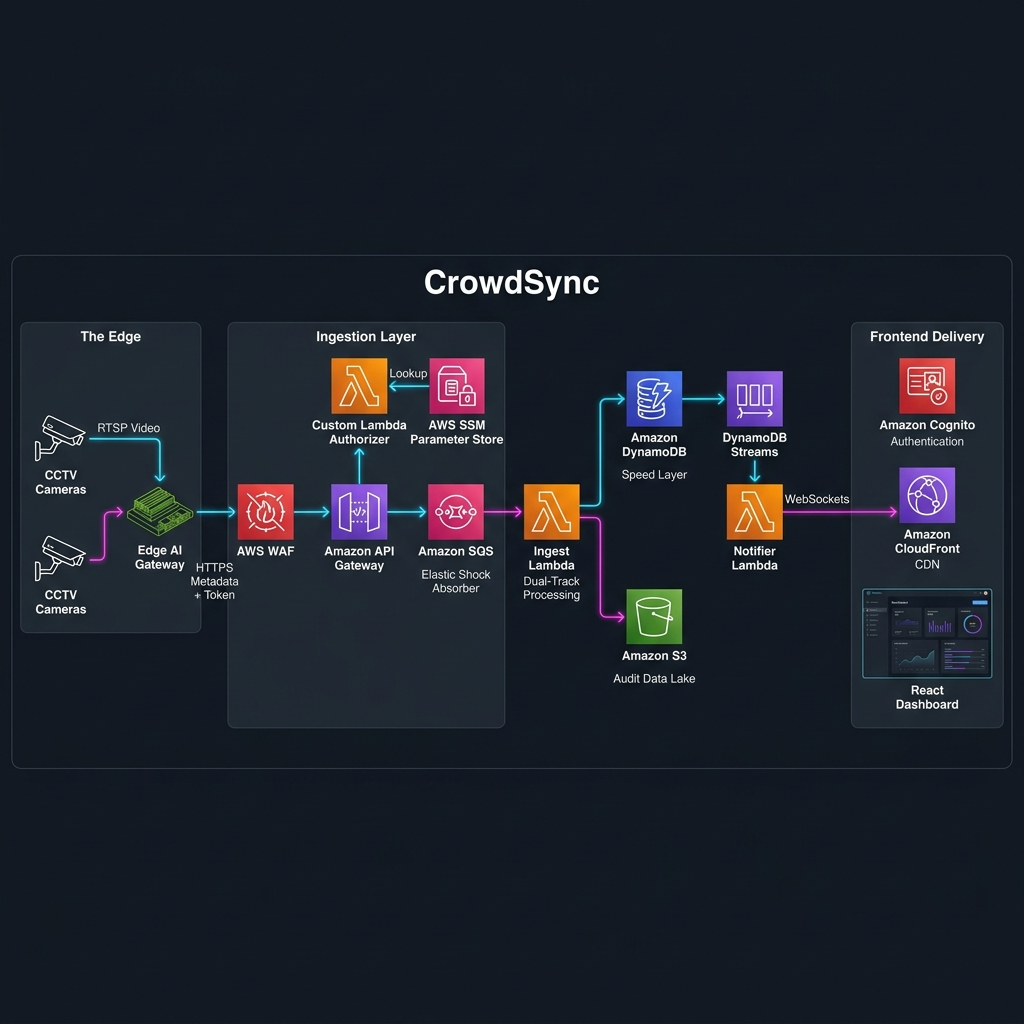
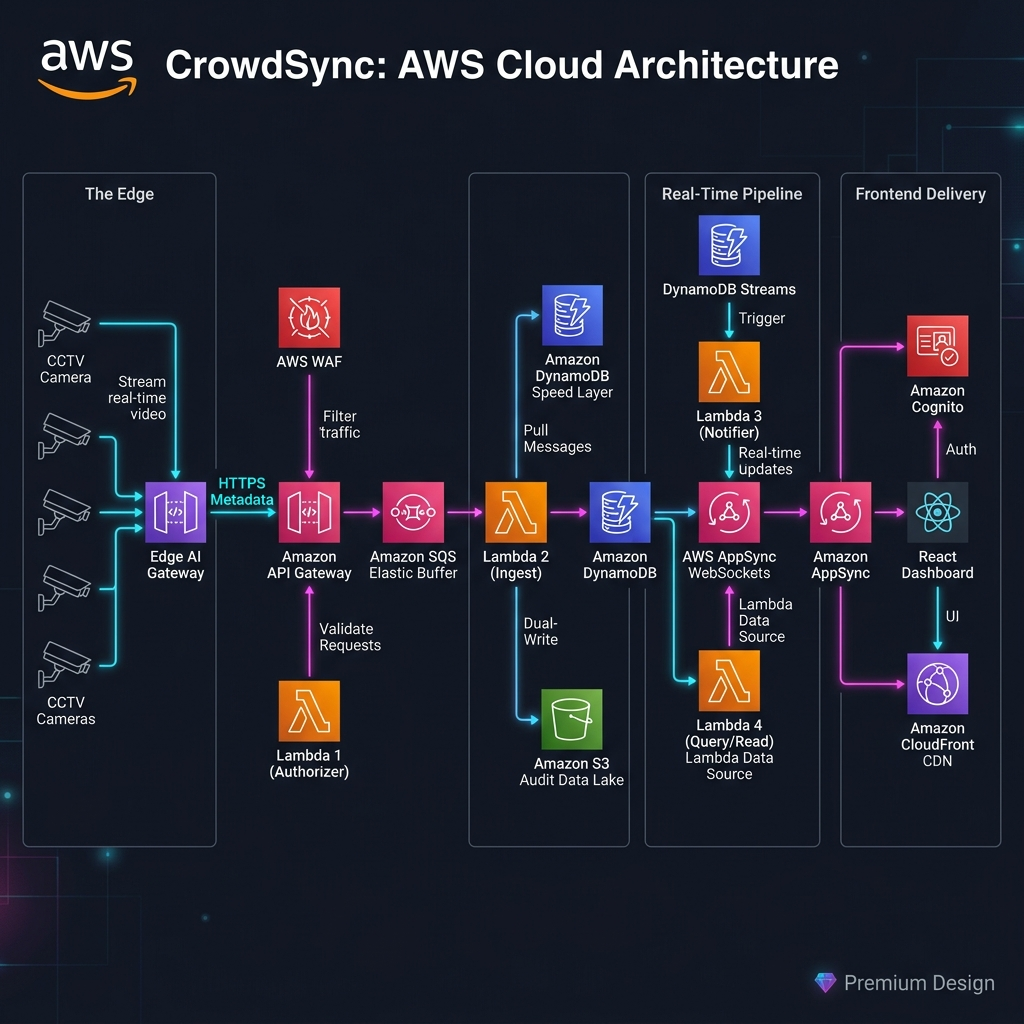
docs: finalize architecture with 4-Lambda system and Edge AI

diff --git a/ACADEMIC_REPORT.md b/ACADEMIC_REPORT.md
@@ -155,7 +155,7 @@ The architecture is heavily optimized for high-density environments, balancing p
 ## 8. Analysis and Reflection
 
 ### 8.1 Evaluation & Critical Appraisal
-**Strengths**: The decoupling of ingestion and processing via SQS proved highly successful. It acts as an effective "shock absorber," preventing database throttling and dropped payloads during sudden crowd rushes. The choice of AppSync provided seamless, out-of-the-box WebSocket management (Amazon Web Services, 2026b), which drastically simplified the React frontend code (Meta Platforms, Inc., 2026). The dual-write approach to an S3 Data Lake ensures raw data is preserved durably for complex batch processing.
+**Strengths**: The decoupling of ingestion and processing via a **4-Lambda Architecture** (Authorizer, Ingest, Notifier, and Query) proved highly successful. This separation of concerns ensured that security, ingestion, real-time broadcasting, and data retrieval could scale independently. The use of SQS as a "shock absorber" prevented database throttling, while the custom Query Lambda allowed for seamless merging of live telemetry with zone metadata for the frontend.
 
 **Areas for Improvement**: Currently, the predictive redirection engine runs entirely on the client side (React). In future iterations, implementing Machine Learning on the backend (e.g., using Amazon SageMaker) could analyze historical S3 Data Lake patterns to predict crowd surges *before* they happen, shifting the platform from reactive monitoring to proactive, AI-driven intelligence.
 

diff --git a/README.md b/README.md
@@ -71,10 +71,11 @@ python3 manage.py apply
 ### ✥ Architecture Deep Dive
 1. **The Edge**: CCTV Cameras → Edge AI Gateway (Local Inference) → Metadata Extraction.
 2. **Security Shield**: AWS WAF (Global & Regional) + CloudFront (Shields the entire platform).
-3. **Ingestion**: API Gateway (Auth via SSM Token) → SQS (Elastic Shock Absorber).
-4. **Intelligence**: Ingest Lambda (Heuristic Analytics) → DynamoDB (State) + S3 (Data Lake).
-5. **Broadcast**: DynamoDB Streams (CDC) → Notifier Lambda → AppSync (WebSockets).
-6. **Observability**: CloudWatch Mission Control (Unified 6-Service Dashboard).
+3. **Ingestion**: API Gateway (Auth via **Lambda 1: Authorizer**) → SQS (Elastic Shock Absorber).
+4. **Intelligence**: **Lambda 2: Ingest** (Heuristic Analytics) → DynamoDB (State) + S3 (Audit Data Lake).
+5. **Real-Time Pipeline**: DynamoDB Streams → **Lambda 3: Notifier** → AppSync (WebSockets).
+6. **Data Retrieval**: **Lambda 4: Query/Read** (Lambda Data Source for AppSync) → Merged State & Metadata.
+7. **Observability**: CloudWatch Mission Control (Unified 6-Service Dashboard).
 
 ---
 
